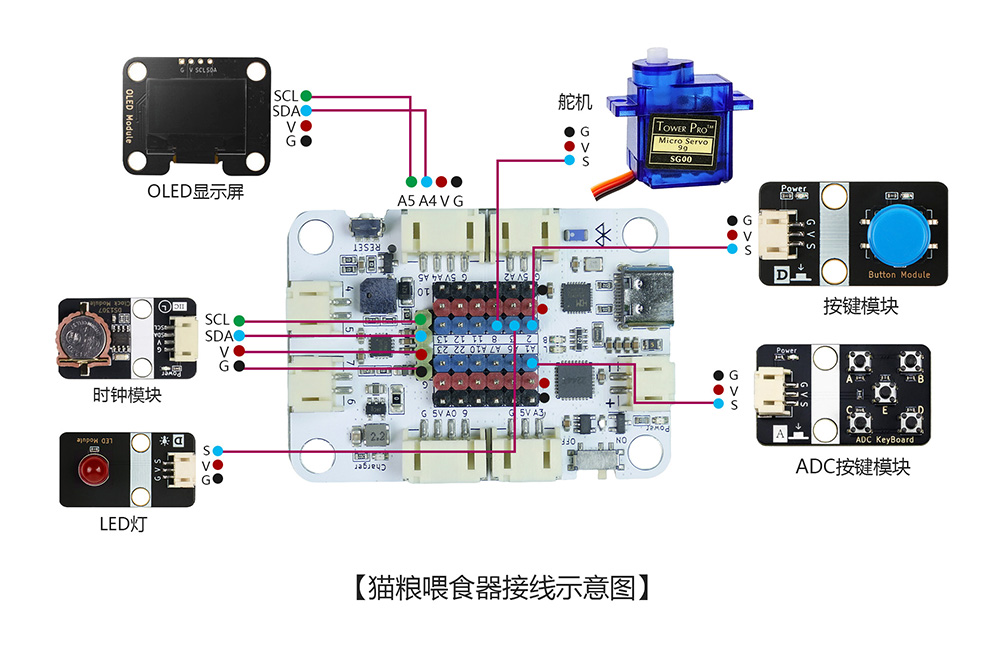
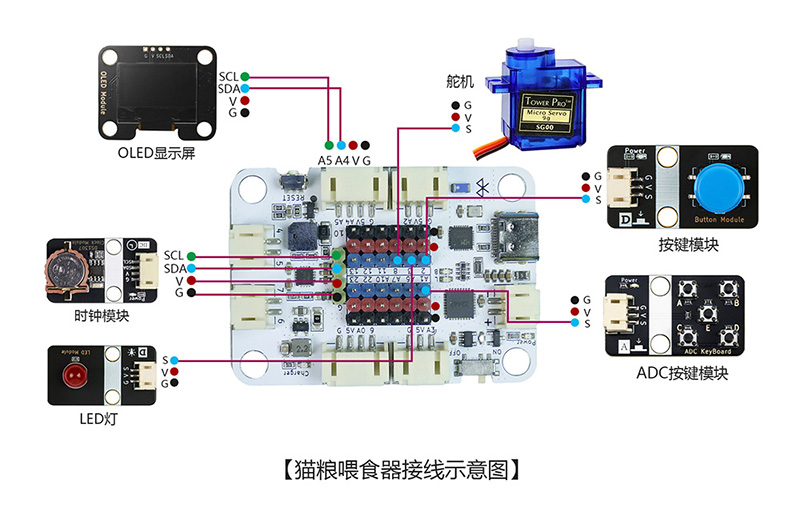
修正0016猫粮喂食器与0026工厂消防系统的文件命名，同步更新文档

diff --git a/docs/LGT-Nano系列/zmf-0016-猫粮喂食器/0016-猫粮喂食器.md b/docs/LGT-Nano系列/zmf-0016-猫粮喂食器/0016-猫粮喂食器.md
@@ -1,6 +1,6 @@
 # 猫粮喂食器
 
-![alt text](pic/0003-智能提醒吃药-主图.JPG)
+![alt text](pic/0016-猫粮喂食器-主图.JPG)
 
 ## 产品概述
 
@@ -55,19 +55,17 @@
 
 | 名称              | 数量 | 名称            | 数量 | 名称                | 数量 |
 | ----------------- | ---- | --------------- | ---- | ------------------- | ---- |
-| LGT maker-nano    | 1    | DS1302 时钟模块   | 1    | 	MP3 语音模块 | 1    |
+| LGT maker-nano    | 1    | DS1302 时钟模块   | 1    | 	舵机 | 1    |
 |OLED 显示器   | 1    | ADC 按键模块 | 1    | 按键模块  | 1    |
-| 红色 LED 灯     | 3    | 椴木结构板  | 2    |   PH2.0转杜邦4pin线    | 1    |
-| PH2.0转杜邦3pin线 | 5    | PH2.0双头4pin线 | 2    | 扎线带 | 3    |
-| TYPEC-数据线      | 1    | 2pin-ph2.0单头   | 1    | 热缩管          | 3    |
-| 塑料铆钉4070    | 24   | 塑料铆钉4120    | 3    | 2.3*6mm自攻螺丝     | 16  |
-| 螺丝刀     | 1    |  
+|  LED 灯     | 1    | 椴木结构板  | 4    |   PH2.0转杜邦4pin线    | 1    |
+| PH2.0转杜邦3pin线 | 3    | PH2.0双头4pin线 | 1    | TYPEC-数据线  | 1    |
+| 零件包      | 1    |
 
 
 
 ### 实物连接图
 
-![alt text](pic/0003-智能提醒吃药-实物连接图.JPG)
+![alt text](pic/0016-猫粮喂食器-实物连接图.JPG)
 
 ### 接线示意图
 
@@ -83,17 +81,14 @@
 [Blockcode程序加载与上传](/docs/software/blockcode/Upload.md)
 
 程序下载：
-<a href="/docs/LGT-Nano系列/zmf-0003-智能提醒吃药/程序/0003-智能吃药提醒-blockcode.rar" download>0003-智能吃药提醒-blockcode</a>
+<a href="/docs/LGT-Nano系列/zmf-0016-猫粮喂食器/程序/0016-猫粮喂食器-blockcode.rar" download>0016-猫粮喂食器-blockcode</a>
 
-音频下载：
-<a href="/docs/LGT-Nano系列/zmf-0003-智能提醒吃药/0003-智能提醒吃药-音频.rar" download>0003-智能提醒吃药-音频</a>
-<br>
 
 ### 初次使用操作步骤
 1. 使用 TYPE-C 数据线将 LGT maker-nano 主板连接电脑，在 软件内打开「时钟校准程序」，在程序块内输入当前标准时间，上传程序完成系统时钟校准；
 ![alt text](pic/时钟校准-blockcode.jpg)
 2. 软件端打开并上传「智能定时猫粮喂食器 - 主程序」，完成整机控制逻辑写入；
-3. 操作 ADC 按键设置早、中、晚三组吃药提醒时间：
+3. 操作 ADC 按键设置早、中、晚三组喂食时间：
    * E 键：循环切换早、中、晚三个待设置时段；
    * A 键、C 键：对选中时段的小时数值进行加、减调节；
    * B 键、D 键：对选中时段的分钟数值进行加、减调节；

diff --git a/docs/LGT-Nano系列/zmf-0026-工厂消防系统/0026-工厂消防系统.md b/docs/LGT-Nano系列/zmf-0026-工厂消防系统/0026-工厂消防系统.md
@@ -1,6 +1,6 @@
 # 工厂消防系统
 
-![alt text](pic/0021-智能饮水机-产品图.jpg)
+![alt text](pic/0026-工厂消防系统-主图.jpg)
 
 ## 产品概述
 
@@ -19,7 +19,7 @@
 | 供电方式 | TYPE-C USB端口，供电电压5V |
 | 产品尺寸 | 256x167x110mm |
 | 核心主板 | LGT maker-nano 主板 |
-| 硬件模组 | 立式水泵、火焰传感器、MQ-4气体传感器、LED灯、有源蜂鸣器、散热风扇等模块 |
+| 硬件模组 | 立式水泵、火焰传感器、MQ-4气体传感器、LED灯、有源蜂鸣器、散热风扇、按键等模块 |
 | 支持编程软件 | Blockcode（图形化编程+无线下载）、Mixly、Arduino |
 | 结构材质 | 厚度2.5mm进口奥松板 |
 
@@ -60,17 +60,15 @@
 | LGT maker-nano    | 1    | 立式水泵        | 1    | 40cm软管 | 1    |
 | MQ-4气体传感器   | 1    | 散热风扇  | 1    | 按键模块  | 1    |
 |  绿色LED灯  | 1    | 红色LED灯 | 1    | 有源蜂鸣器  | 1    |
-|      | 1    | 椴木结构板  | 2    | 2pin-ph2.0单头      | 1    |
+| 火焰传感器  | 1    | 椴木结构板  | 4    | 2pin-ph2.0单头      | 2    |
 | PH2.0转杜邦3pin线 | 1    | PH2.0双头4pin线 | 2    | PH2.0双头3pin线  | 2    |
-| TYPEC-数据线      | 1    | 螺丝刀  | 1    | 热缩管          | 3    |
-| 塑料铆钉4070      | 12   | 塑料铆钉4120    | 3    | 2.3*6mm自攻螺丝     | 12   |
-
+| TYPEC-数据线      | 1    | 零件包  | 1    | 
 
 
 
 ### 实物连接图
 
-![alt text](pic/0021-智能饮水机-实物连接图.JPG)
+![alt text](pic/0026-工厂消防系统-实物连接图.JPG)
 
 ### 接线示意图
 
@@ -87,7 +85,7 @@
 
 程序下载：
 
-<a href="/docs/LGT-Nano系列/zmf-0021-智能饮水机/程序/0021-智能饮水机-blockcode.rar" download>zmf-0021-智能饮水机-blockcode</a>
+<a href="/docs/LGT-Nano系列/zmf-0026-工厂消防系统/程序/zmf-0026-工厂消防系统-blockcode.rar" download>zmf-0026-工厂消防系统-blockcode</a>
 
 <br>
 
